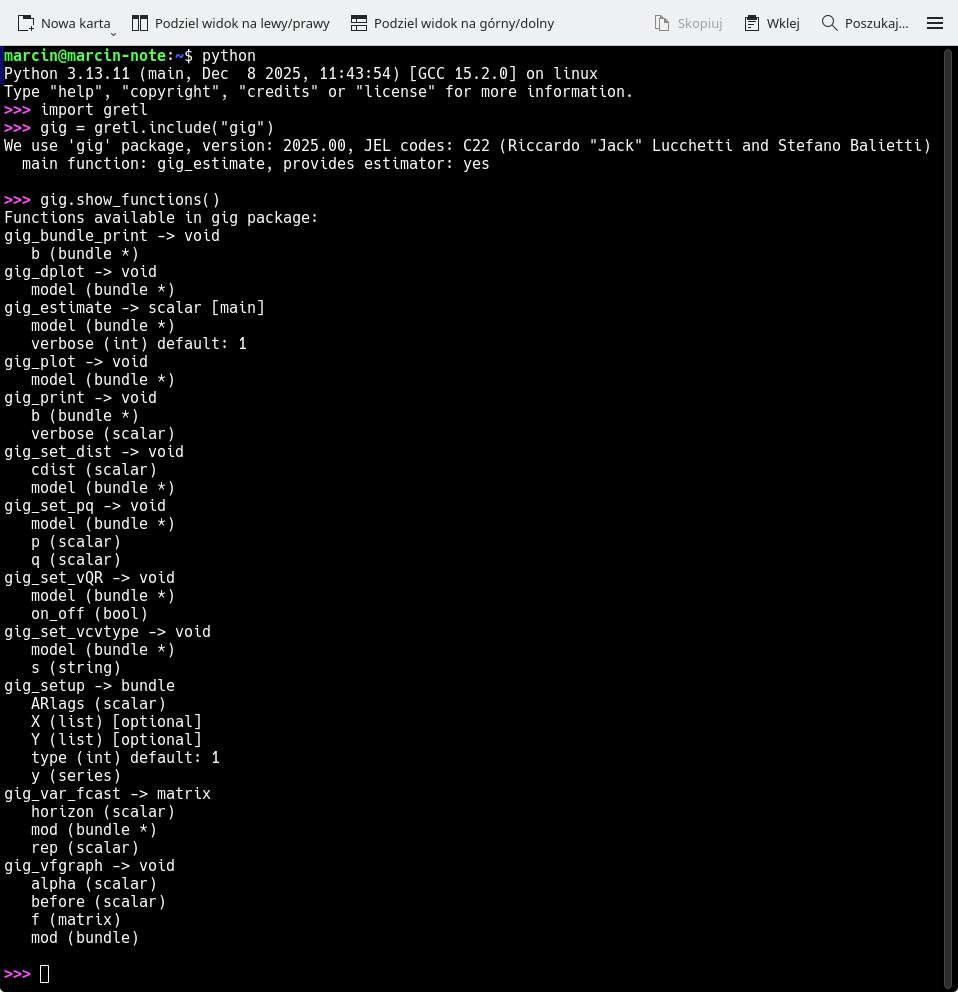
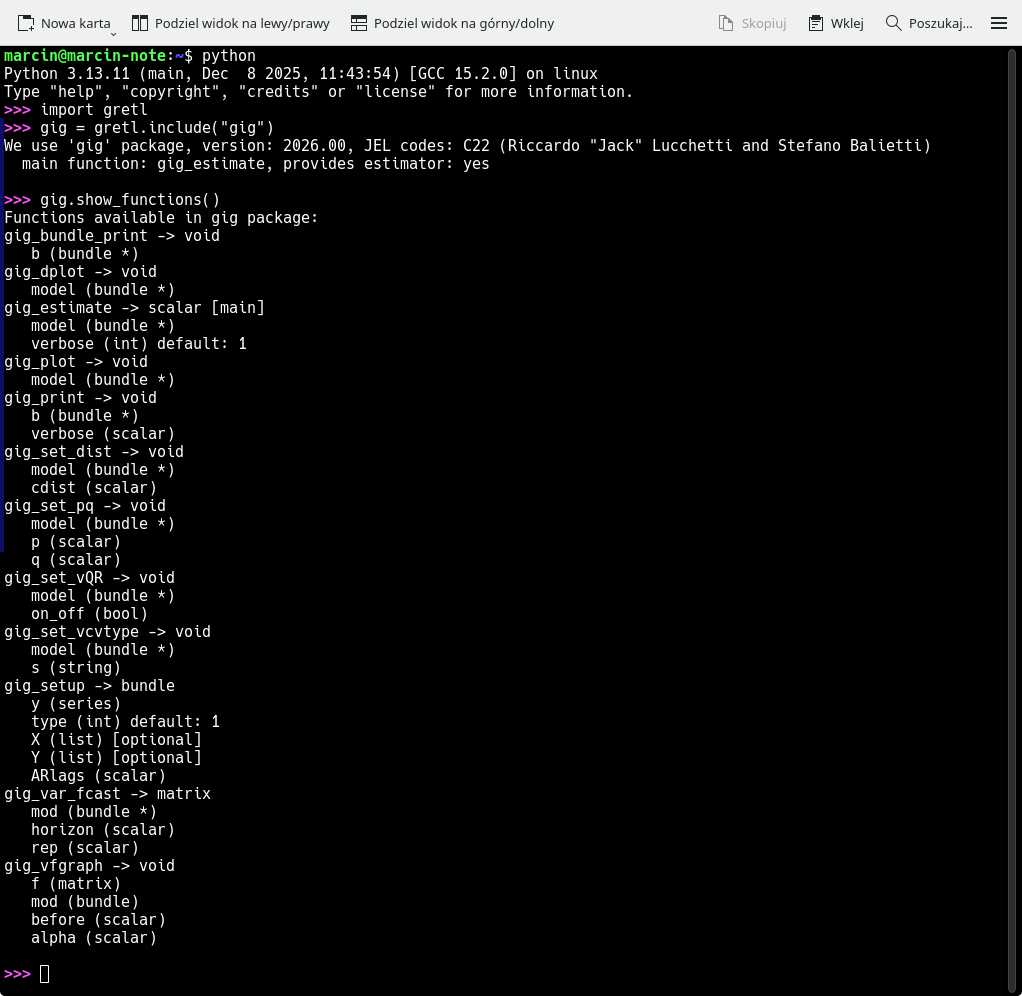
GretlPackage: positional type calls documented

Changed region(s): [[0.0, 0.0, 0.9687, 1.0], [0.6962, 0.0, 0.9384, 0.0312]]

diff --git a/doc/usage_contributed_packages.tex b/doc/usage_contributed_packages.tex
@@ -203,7 +203,14 @@ signatures:
 	\item \pythcode{gig_estimate(model: _gretl.Bundle, verbose: int = 1) -> int}.
 \end{itemize}
 
-Note that in \gretlpy the order of parameters does not matter.
+Note that in \gretlpy, users may call functions from packages
+in two ways:
+\begin{itemize}
+	\item \bftt{positional}: in this case, the order of parameters
+		must match the function signature,
+	\item \bftt{keyword}: in this case, the order of parameters
+		does not matter.
+\end{itemize}
 
 To run the example script provided with the \texttt{gig} package,
 one would use the following \texttt{hansl} code:
@@ -240,8 +247,10 @@ gretl.include('gig')
 djclose = gretl.get_data('djclose.gdt')
 djclose.new_series('rr = 100*ldiff(djclose)')
 
-gig_model = gretl.gig_setup(y='rr')
-gretl.gig_estimate(model=gig_model)
+gig_model = gretl.gig_setup('rr')             # equivalent to gig_model = gretl.gig_setup(y='rr')
+
+gretl.gig_estimate(gig_model)                 # equivalent to gretl.gig_estimate(model=gig_model)
+
 
 # Compare with native implementation
 native_model = gretl.garch('1 1 ; rr', nc=True, robust=True).fit()
